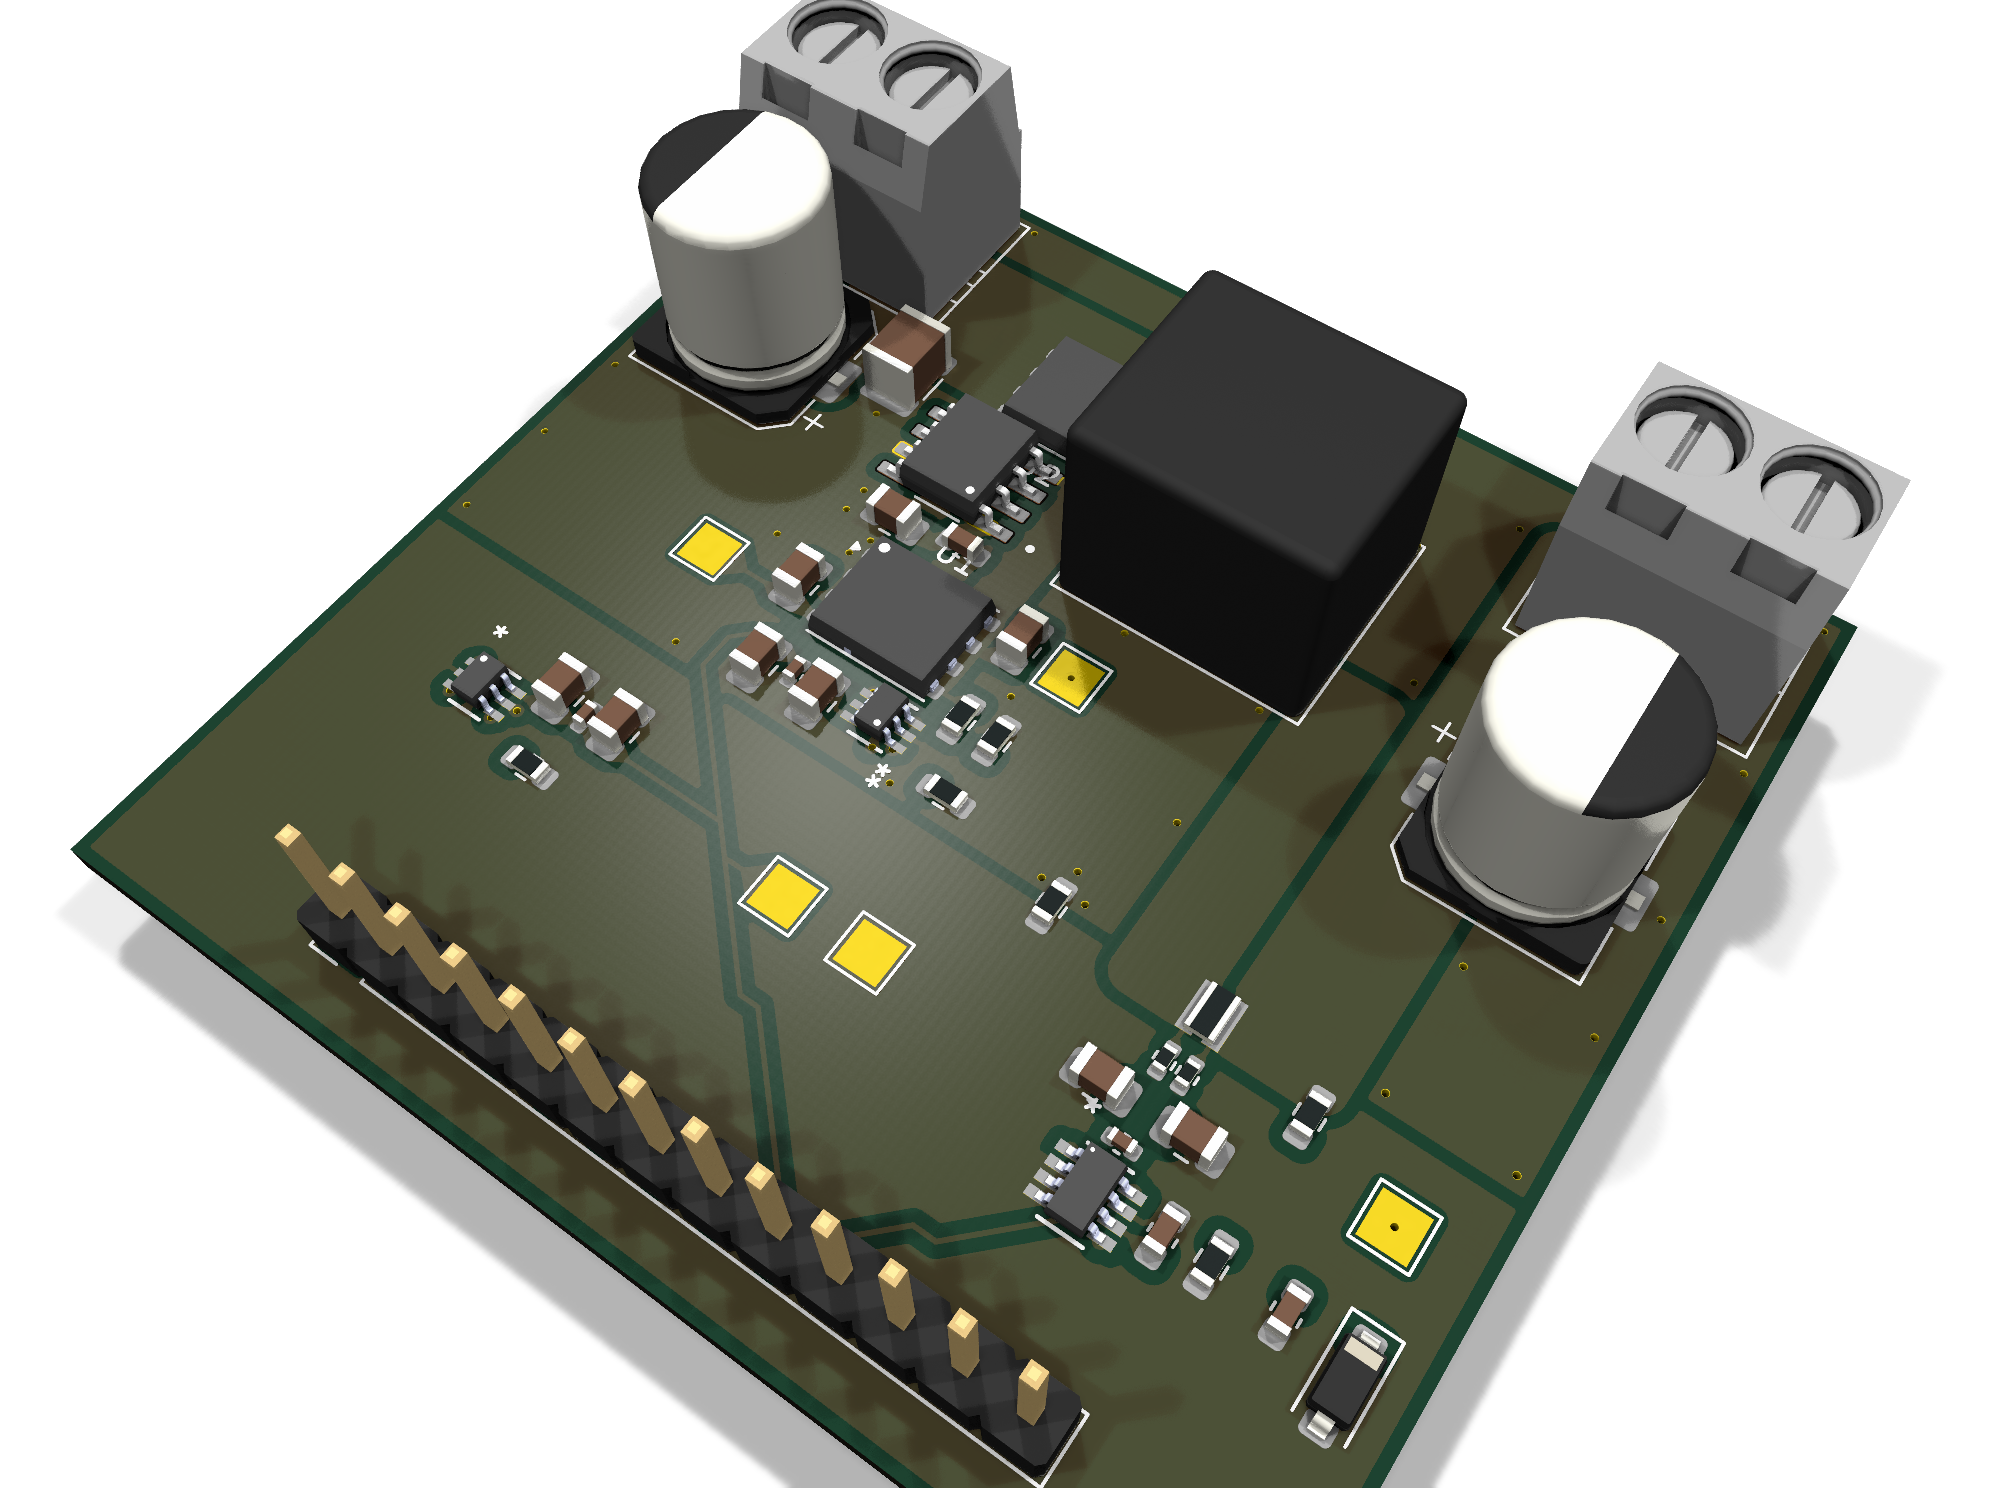
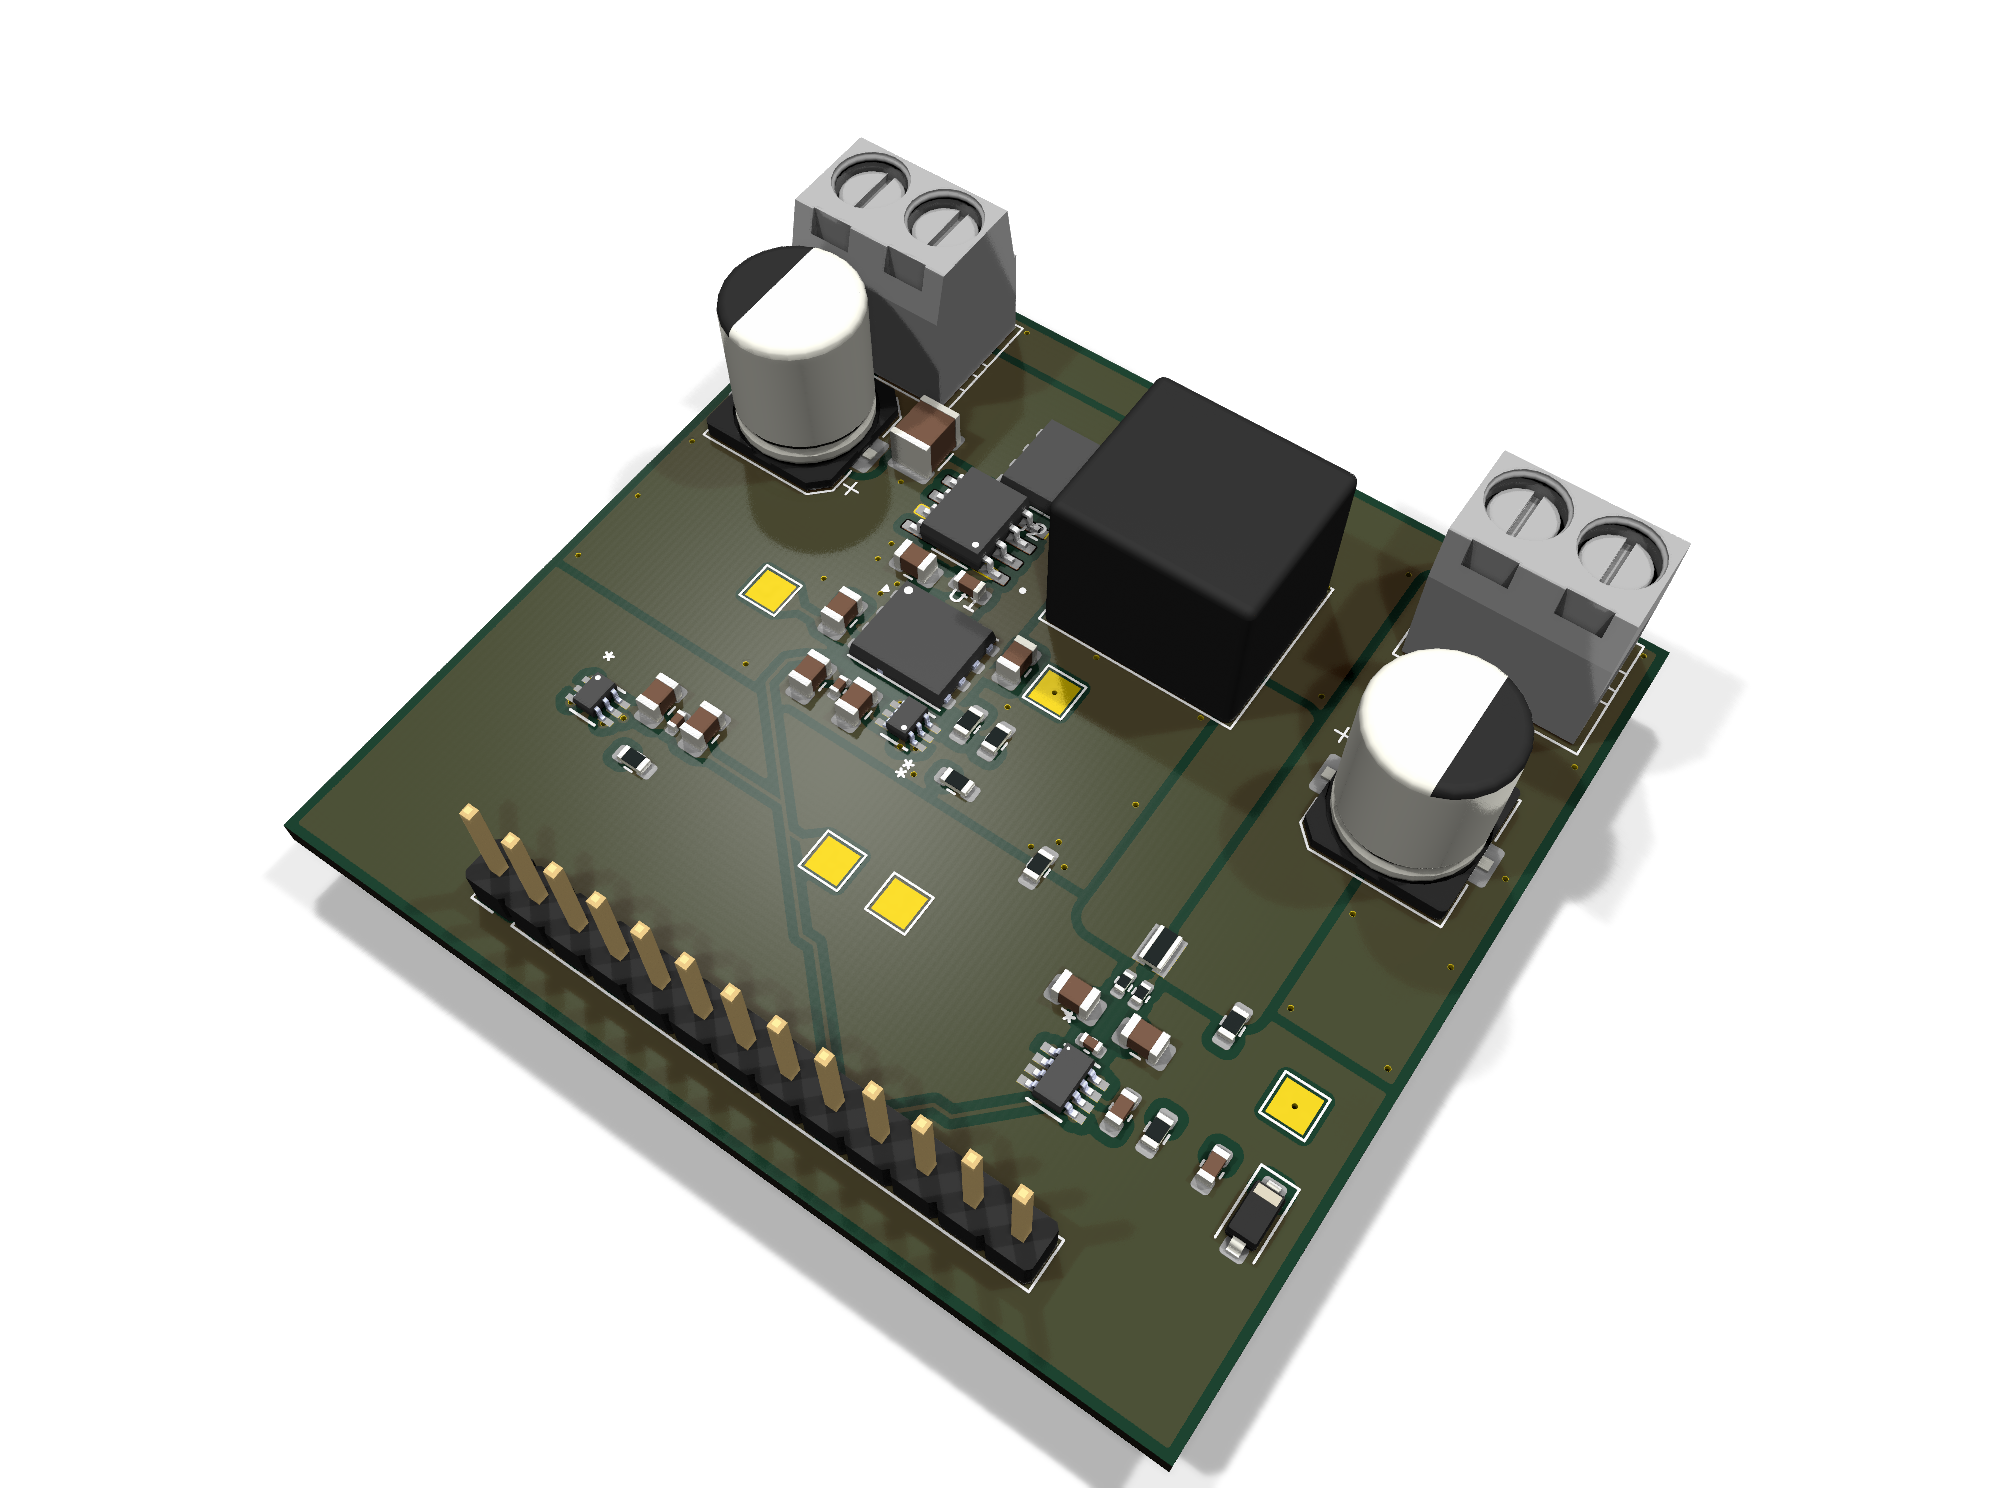
Zoom out isometric render to fit the full board

diff --git a/docs/regenerate-images.md b/docs/regenerate-images.md
@@ -14,7 +14,7 @@ Run all commands from the repository root.
 Isometric view (README header):
 
     kicad-cli pcb render -o docs/board-iso.png --quality high --perspective \
-      --rotate '-30,0,-35' --zoom 0.9 --width 2000 --height 1500 \
+      --rotate '-30,0,-35' --zoom 0.7 --width 2000 --height 1500 \
       --background transparent hardware/synch_buck_digital.kicad_pcb
 
 Top-down view:
